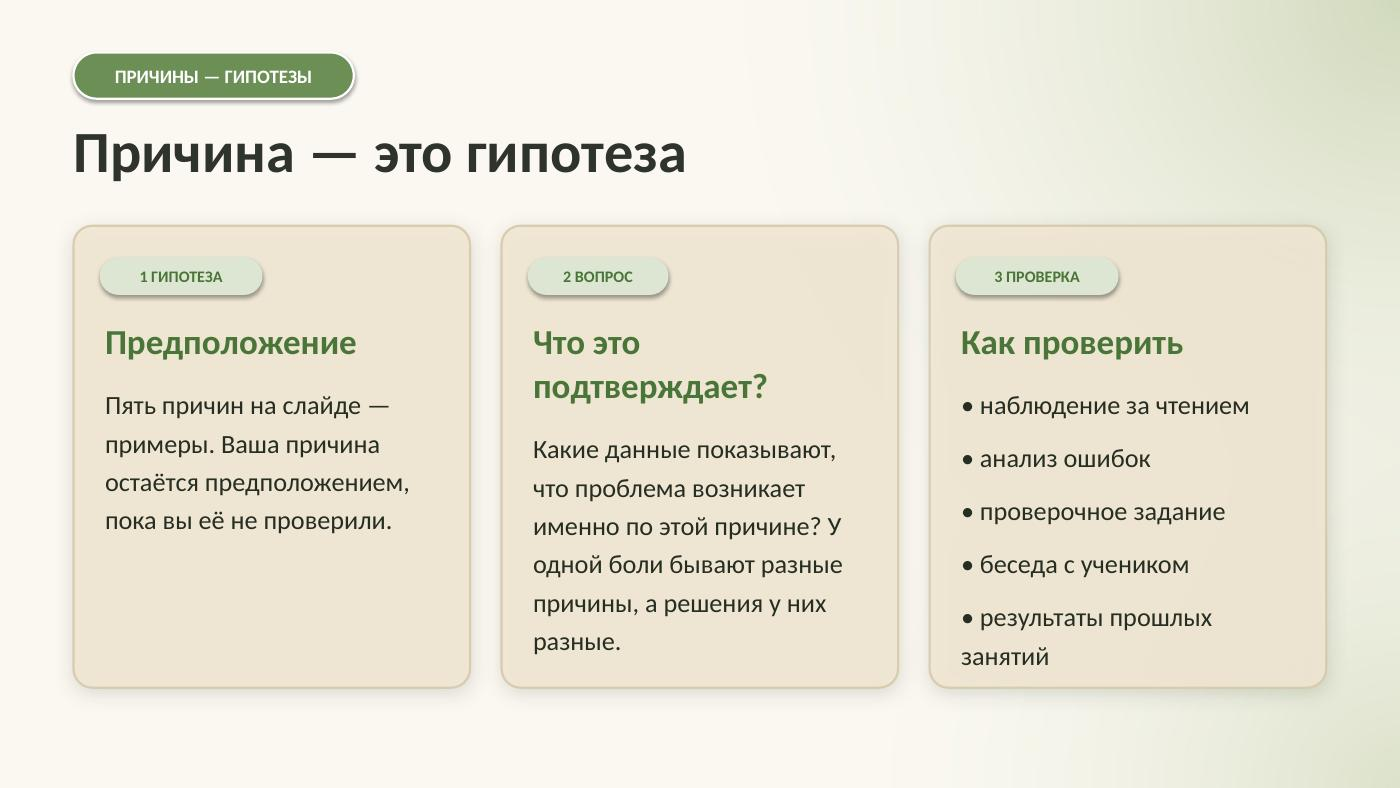
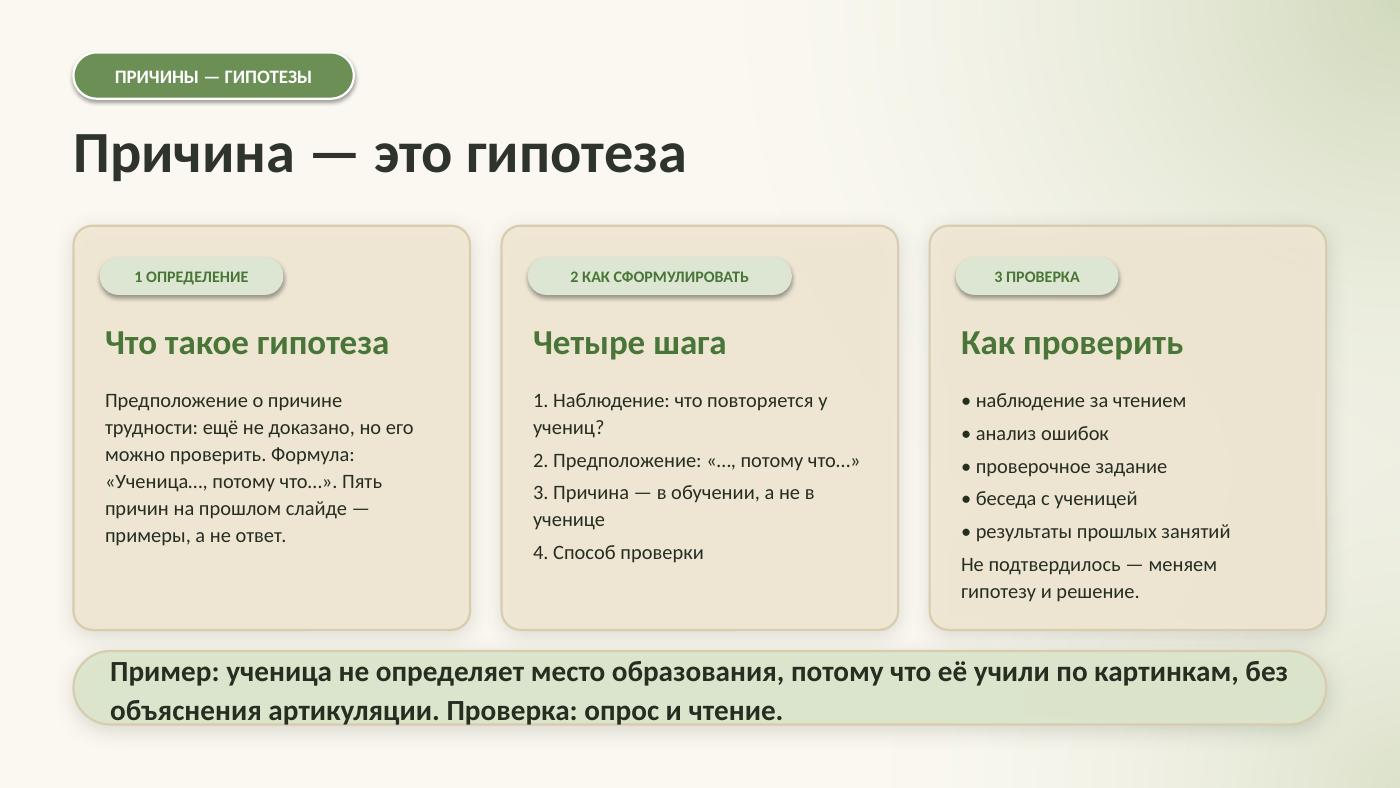
Урок 2, слайд 11: гипотеза — определение, как сформулировать, как проверить
Claude-Session: https://claude.ai/code/session_01QSBLQ1QGNxgcnSucjRRssF

diff --git a/sw.js b/sw.js
@@ -1,4 +1,4 @@
-var V='df-v17',CORE=['./','index.html','kimi-1.html','kimi-2.html','konstruktor.html','glass2027.css','glass2027.js','dostizheniya.css','dostizheniya.js','offline.css','offline.js','icons/icon-192.png'];
+var V='df-v18',CORE=['./','index.html','kimi-1.html','kimi-2.html','konstruktor.html','glass2027.css','glass2027.js','dostizheniya.css','dostizheniya.js','offline.css','offline.js','icons/icon-192.png'];
 self.addEventListener('install',function(e){e.waitUntil(caches.open(V).then(function(c){return Promise.all(CORE.map(function(u){return c.add(u).catch(function(){})}))}).then(function(){return self.skipWaiting()}))});
 self.addEventListener('activate',function(e){e.waitUntil(caches.keys().then(function(k){return Promise.all(k.filter(function(x){return x!==V}).map(function(x){return caches.delete(x)}))}).then(function(){return self.clients.claim()}))});
 self.addEventListener('fetch',function(e){var r=e.request;if(r.method!=='GET'||new URL(r.url).origin!==location.origin)return;
